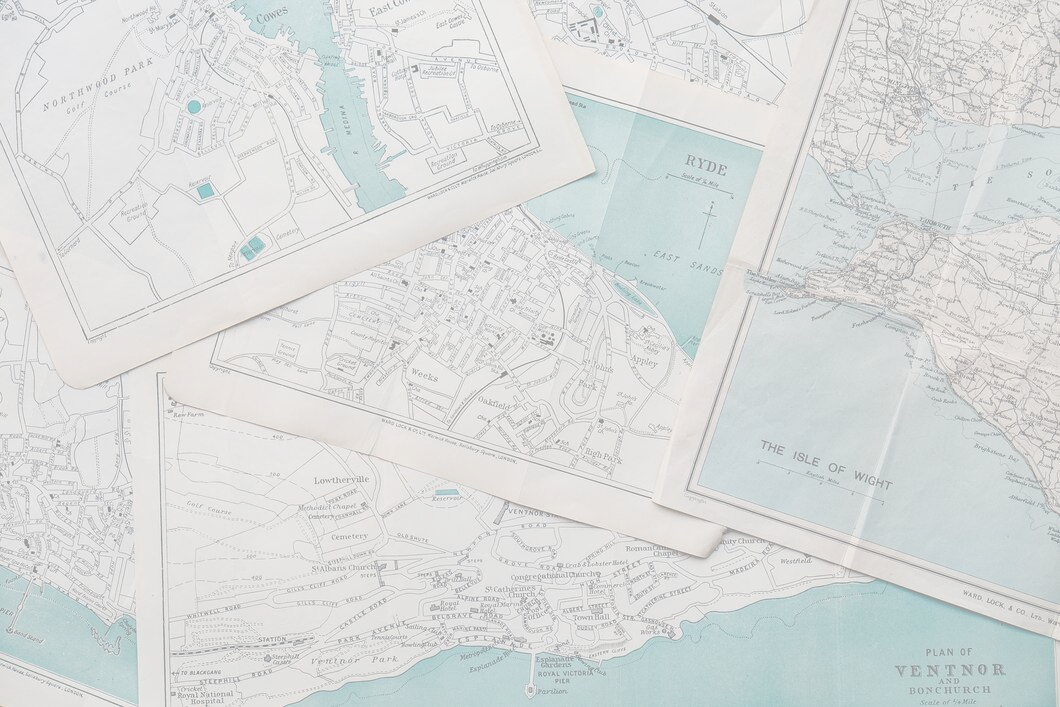
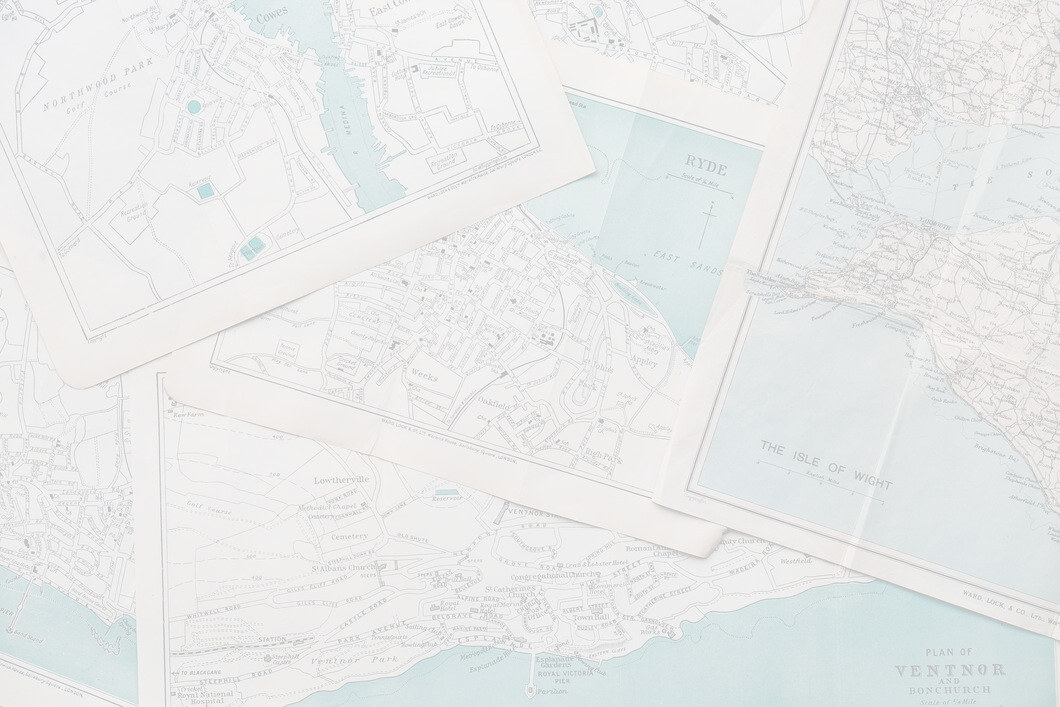
Redesign with background

diff --git a/frontend/styles.css b/frontend/styles.css
@@ -162,43 +162,42 @@
     padding-bottom:25px;
     border-radius:30px;
 }
-.boxed_c {
-  background-color: #CFD7C7;
-  position: fixed;
-  top: 100px;
-  left: 34%;
-  opacity: 0.5;
-  height: 570px;
-  width: 450px;
-  text-align: left;
-  padding-left: 15px;
-  padding-right: 15px;
-  padding-top: 17px;
-  padding-bottom: 15px;
-  border-radius:30px;
-}
-.boxed_login {
-  background-color: #CFD7C7;
-  position: fixed;
-  top: 100px;
-  left: 34%;
-  opacity: 0.5;
-  height: 315px;
-  width: 450px;
-  text-align: left;
-  padding-left: 15px;
-  padding-right: 15px;
-  padding-top: 17px;
-  padding-bottom: 15px;
-  border-radius:30px;
-}
-.body_frontpage{
-  opacity:0.2;
-  /* position:absolute; */
-  position: fixed;
-  left:-5px;
-  top:57.5px;
-  width:100%;
-  height:auto;
-  background: no-repeat;
-}
+  .boxed_c {
+    background-color: #CFD7C7;
+    position: fixed;
+    top: 100px;
+    left: 34%;
+    opacity: 1;
+    height: 550px;
+    width: 450px;
+    text-align: left;
+    padding-left: 15px;
+    padding-right: 15px;
+    padding-top: 17px;
+    padding-bottom: 15px;
+    border-radius:30px;
+  }
+  .boxed_login{
+    background-color: #CFD7C7;
+    position: fixed;
+    top: 100px;
+    left: 34%;
+    opacity: 1;
+    height: 315px;
+    width: 450px;
+    text-align: left;
+    padding-left: 15px;
+    padding-right: 15px;
+    padding-top: 17px;
+    padding-bottom: 15px;
+    border-radius:30px;
+  }
+  .body_frontpage{
+    opacity:1;
+    position: fixed;
+    left:-5px;
+    top:57.5px;
+    width:100%;
+    height:auto;
+    background: no-repeat;
+  }

diff --git a/frontend/index.php b/frontend/index.php
@@ -3,14 +3,12 @@
   <head>
     <link href="styles.css" rel="stylesheet" type="text/css" />
     <div class="header">
-    <h1><img src="logo1.2.png" alt="BatGirl logo" width="50" height="50" style= "margin-bottom: -10px; margin-left: 15px; margin-right: 0px;">CoTRACK-19<button type="submit" id="loginButton" class="button button_header" form="login_form" style="margin-right:7px;">LOGIN<form method="get" id="login_form" action="login.php"></form></button><button type="submit" id="myButton" class="button button_header" form="reg_form" style="margin-right:3px" >REGISTER USER <form method="get" id="reg_form" action="user_reg.php"></form></button></h1>
+    <h1><img src="logo1.2.png" alt="BatGirl logo" width="50" height="50" style= "margin-bottom: -10px; margin-left: 15px; margin-right: 0px;">CoTRACK-19<button type="submit" id="loginButton" class="button button_header"; form="login_form" style="margin-right:7px;">LOGIN<form method="get" id="login_form" action="login.php"></form></button><button type="submit" id="registerButton" form="reg_form" class="button button_header" >REGISTER USER<form method="get" id="reg_form" action="user_reg.php"></form></button></h1>
     </div>
   </head>
  <body>
     <div class="container">
-      <!-- <img src="map_front_background.jpg" alt="background" style= "width: 108%; height:820px; padding:0; position:relative; top:-28px; left:-100px; right: -100px; opacity: 0.2;"> -->
-      <!-- <img src="map_front_background.jpg" alt="background" style= "opacity:0.2; position:relative; height:820px; top:-28px; width: 1493px; left:-10px;"> -->
-      <img src="map_front_background.jpg" class=body_frontpage>
+      <img src="map_background.png" class=body_frontpage>
       <div class="centered">COVID-19 Restriction Tracking System</div>
       <div class="boxed_l">blablablablabkabkabkabkabkabakbakba<br>blblabalb</div><div class="boxed_m">Inna är en stjärt</div><div class="boxed_r">blablabla</div>
 </body>

diff --git a/frontend/login.php b/frontend/login.php
@@ -9,10 +9,11 @@
   </head>
   <body>
   <div class="container">
+  <img src="map_background.png" class=body_frontpage>
     <div class= "boxed_login">
       <form action="login.php">
       <div>
-      <h1 style= "text-align: center;">Login</h1>
+      <h1 style= "text-align: center; margin-right:10px;">Login</h1>
       <p>Please fill in the form below:</p>
         <label for="uname"><b>Username</b></label>
         <input type="text" placeholder="Enter Username" name="uname" required><br><br>
@@ -20,8 +21,8 @@
         <input type="password" placeholder="Enter Password" name="psw" required>
       </label><br><br>
         <!-- <span class="psw" style= "font-family: 'Red Hat Display'; color: #77A6B6; text-align:center;">Forgot <a href="#">password?</a></span> -->
-      <div><form method="get" action="index.php"><button type = "submit" id="myButton" class="button button_register";>CANCEL</form>
-      <button onclick="location.href = 'www.yoursite.com';" id="myButton" class="button button_register"; style= "float: center;">LOGIN</button>
+      <div>
+      <button onclick="location.href = 'www.yoursite.com';" id="myButton" class="button button_register"; style= "margin-left:52px  ;">LOGIN</button>
       </div>
       </div>
       </form>

diff --git a/frontend/user_reg.php b/frontend/user_reg.php
@@ -9,6 +9,7 @@
   </head>
   <body>
   <div class="container">
+  <img src="map_background.png" class=body_frontpage>
     <div class="boxed_c">
       <form action="/performreg.php">
       <div>
@@ -34,8 +35,8 @@
       <label><b>Vaccine type:</b></label>
       <input type="vaccine_type" placeholder="Brand of Vaccine" name="vaccine_type" required><br><br>
       <p>By creating an account you agree to our <a href="linktotermsandprivacypage.html" style="color:dodgerblue">Terms & Privacy</a>.</p>
-      <div><form method="get" action="index.php"><button type = "submit" id="myButton" class="button button_register";>CANCEL</form>
-      <button onclick="location.href = 'www.yoursite.com';" id="myButton" class="button button_register"; style= "float: center;">REGISTER</button>
+      <div>
+      <button onclick="location.href = 'www.yoursite.com';" id="myButton" class="button button_register"; style= "margin-left:43px;">REGISTER</button>
       </div></div>
       </form>
     </div>

diff --git a/frontend/user_frontpage.php b/frontend/user_frontpage.php
@@ -1,0 +1,11 @@
+<!DOCTYPE html>
+<html>
+  <head>
+    <link href="styles.css" rel="stylesheet" type="text/css"/> <!-- Connecting to the css file named styles.css -->
+    <div class="header">
+    <h1><img src="logo1.2.png" alt="BatGirl logo" width="50" height="50" style= "margin-bottom: -10px; margin-left: 15px; margin-right: 0px;">CoTRACK-19<form method="get" action="index.php"><button type="submit" id="myButton" class="button button_header" style="margin-right:7px; top:-53px;";>HOME</form></h1>
+    </div>
+  </head>
+  <body>
+    
+  </body>
